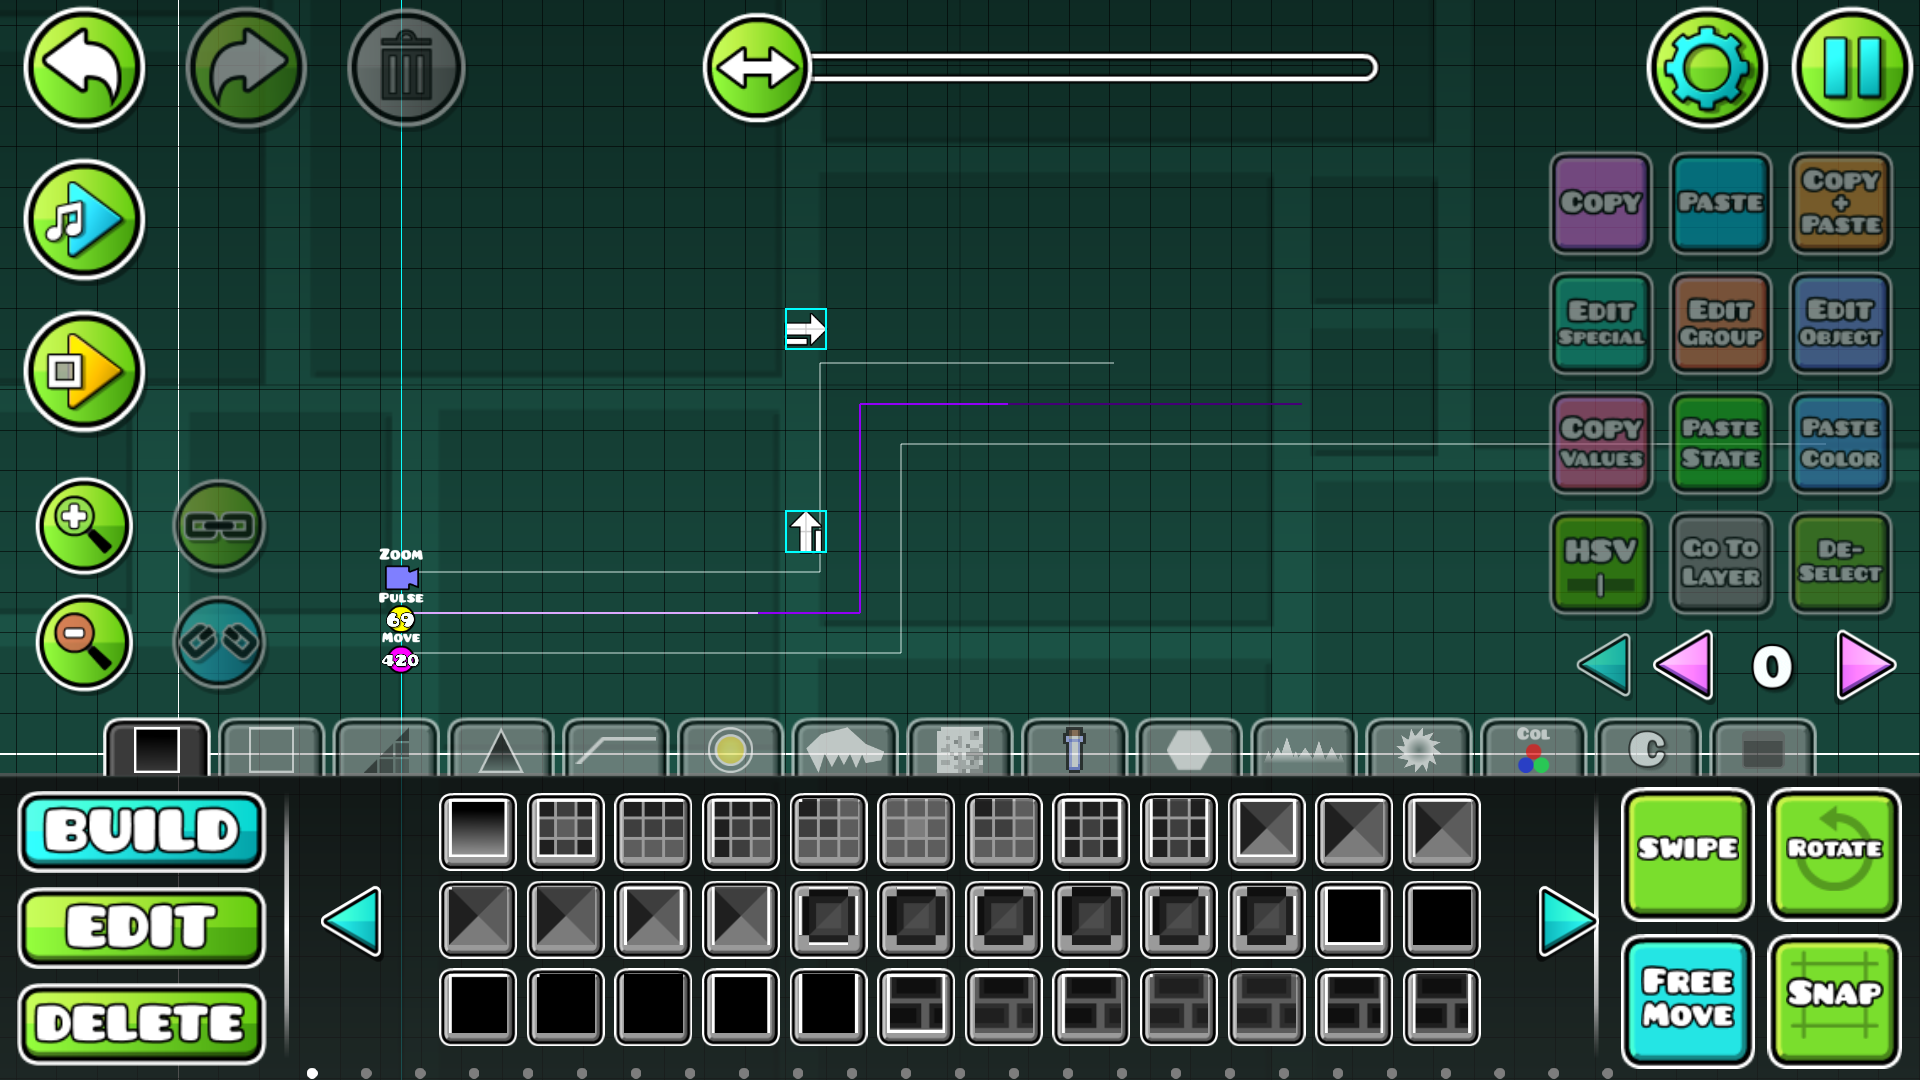
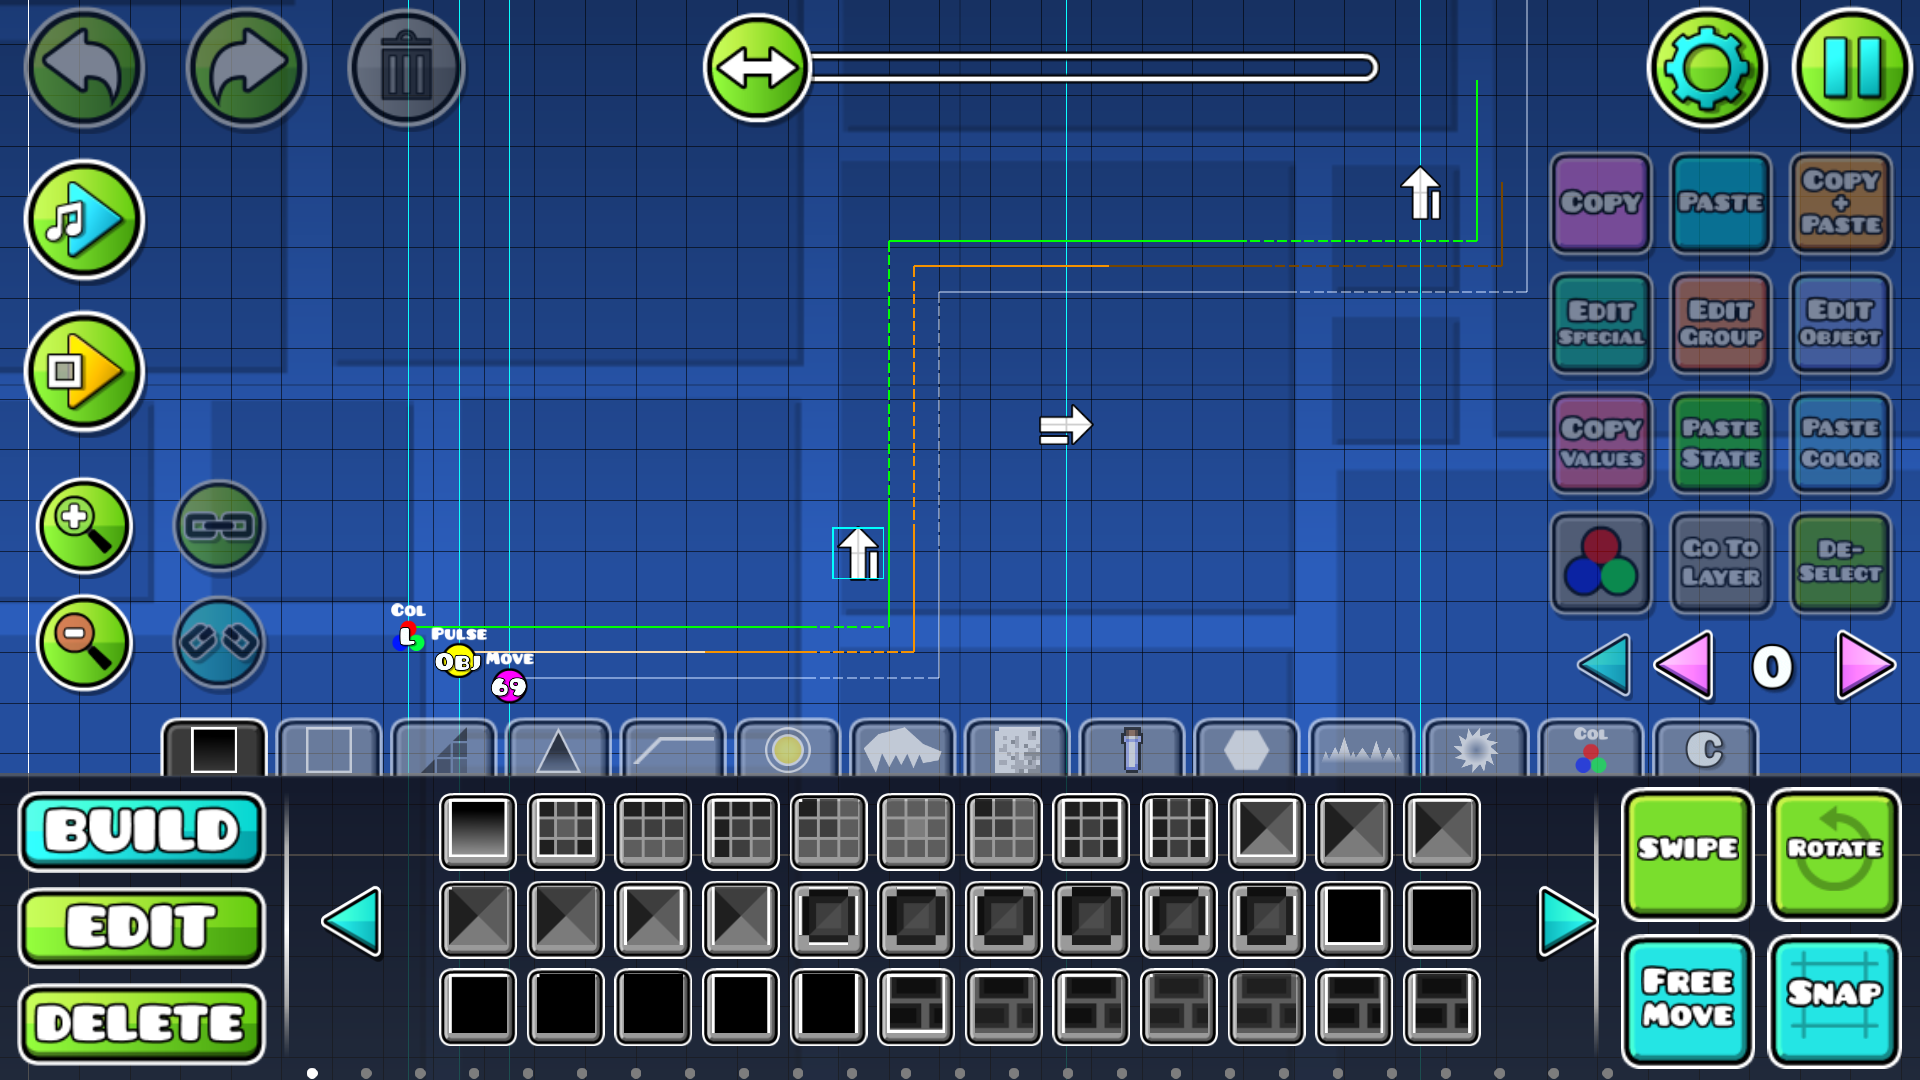
update preview + small changes to dashed line drawing

diff --git a/src/DrawGridLayer.cpp b/src/DrawGridLayer.cpp
@@ -386,11 +386,11 @@ void HookedDrawGridLayer::drawLines(const cocos2d::CCPoint& start, const std::ve
         bool hasJumped = to.m_hasJumped;
         
         auto col = allSegments[i + 1].m_col;
+        cocos2d::ccDrawColor4B(col.r, col.g, col.b, col.a);
+
         if (hasJumped) {
-            cocos2d::ccDrawColor4B(col.r, col.g, col.b, col.a / 2.f);
             drawDashedLine(from.m_pos, to.m_pos);
         } else {
-            cocos2d::ccDrawColor4B(col.r, col.g, col.b, col.a);
             cocos2d::ccDrawLine(from.m_pos, to.m_pos);
         }
     }
@@ -406,13 +406,12 @@ void HookedDrawGridLayer::drawDashedLine(const cocos2d::CCPoint& start, const co
     
     cocos2d::CCPoint pen = start;
     float dist = start.getDistance(end);
-    // subtract totalLength*2 to remove last two lines to then be drawn later
-    for (float i = 0; i < dist - totalLength*2; i += totalLength) {
-        pen += vec * totalLength;
+    // subtract totalLength to remove last two lines to then be drawn later
+    for (float i = 0; i < dist - totalLength; i += totalLength) {
         cocos2d::ccDrawLine(pen, pen + (vec * dashLength));
+        pen += vec * totalLength;
     }
 
-    pen += vec * totalLength;
     cocos2d::ccDrawLine(pen, end);
 
     if (m_fields->m_debug) {
